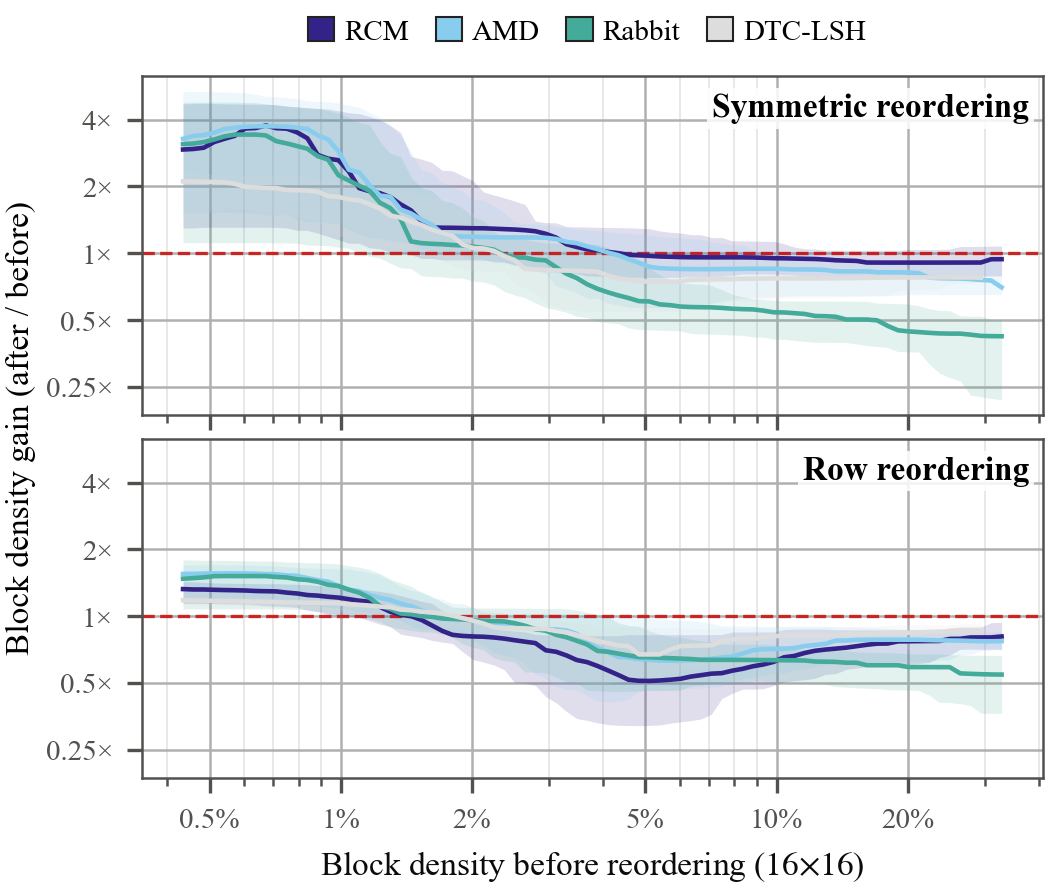
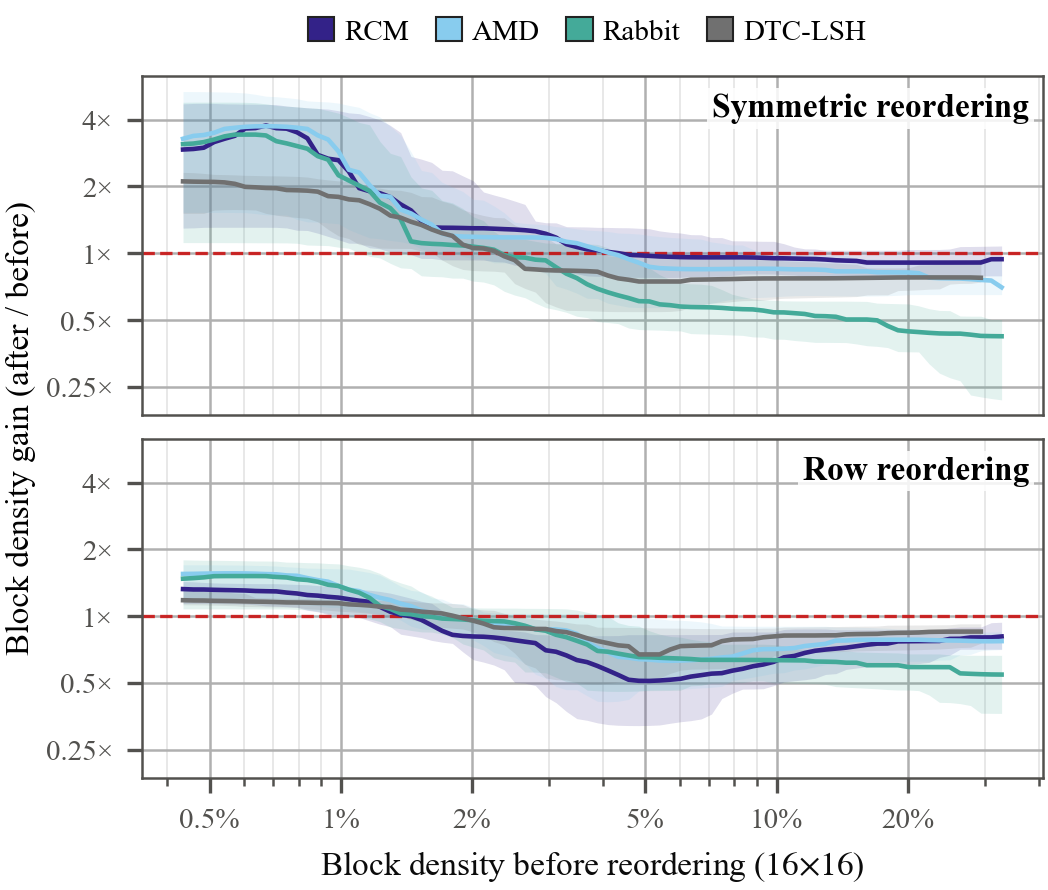
Gain figures: no x ticks on the top panel, darker DTC-LSH line

diff --git a/analysis/density_response/gain_figures.py b/analysis/density_response/gain_figures.py
@@ -40,6 +40,7 @@ def gains():
 def figure(g, xcol, xlabel, name, pct=False):
     """Paper style: one column, symmetric over row, square-patch legend."""
     colors = {v['display']: v['color'] for v in PERMS.values()}
+    colors['DTC-LSH'] = '#707070'    # paper's light grey is unreadable as a thin line
     fig, axes = plt.subplots(2, 1, figsize=(COL_W, 3.0), sharex=True, sharey=True)
     for ax, (pt, title) in zip(axes, PANELS):
         sub = g[g['perm_type'] == pt]
@@ -62,6 +63,7 @@ def figure(g, xcol, xlabel, name, pct=False):
         ax.text(0.985, 0.95, title, transform=ax.transAxes, ha='right', va='top',
                 fontsize=8, fontweight='bold', zorder=6,
                 bbox=dict(boxstyle='square,pad=0.15', fc='white', ec='none', alpha=0.85))
+    axes[0].tick_params(axis='x', which='both', length=0)
     axes[0].yaxis.set_major_locator(mpl.ticker.FixedLocator([0.25, 0.5, 1, 2, 4]))
     axes[0].yaxis.set_major_formatter(plt.FuncFormatter(lambda v, _: f'{v:g}×'))
     axes[0].yaxis.set_minor_locator(mpl.ticker.NullLocator())
